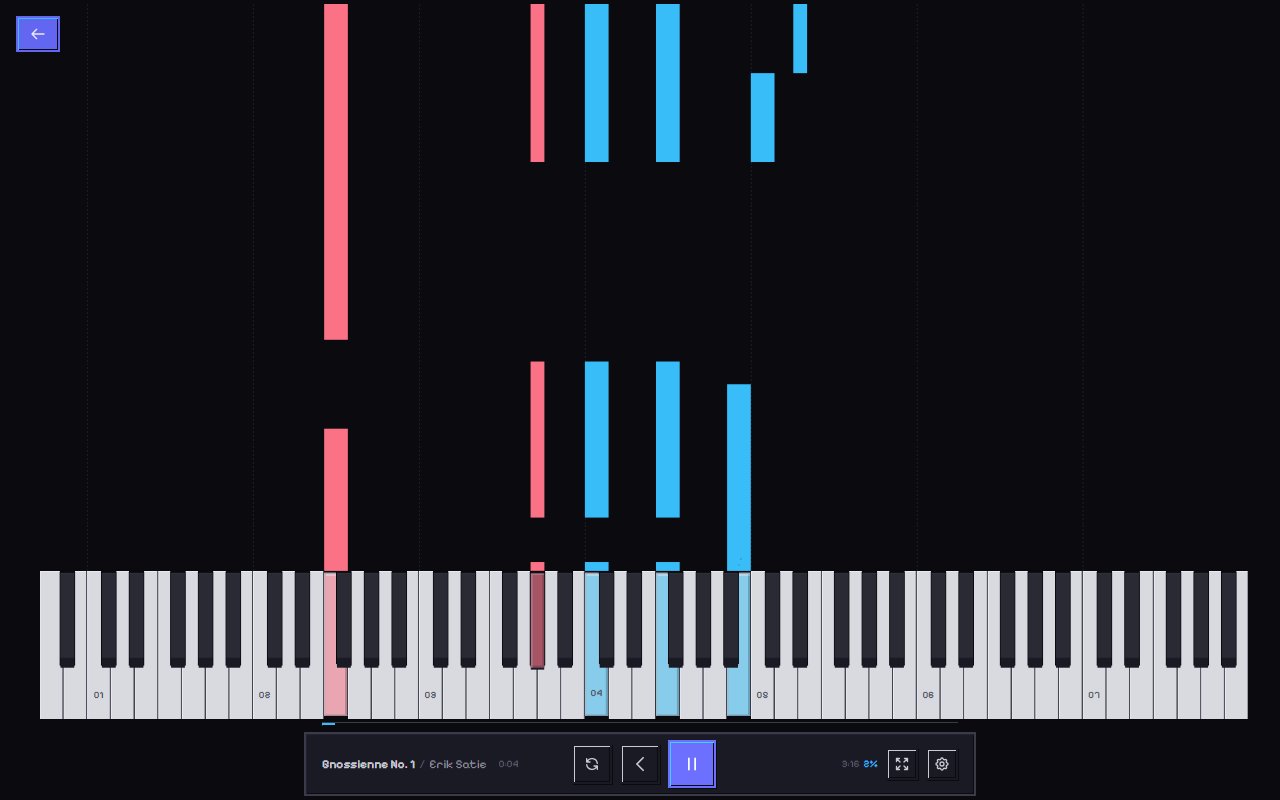
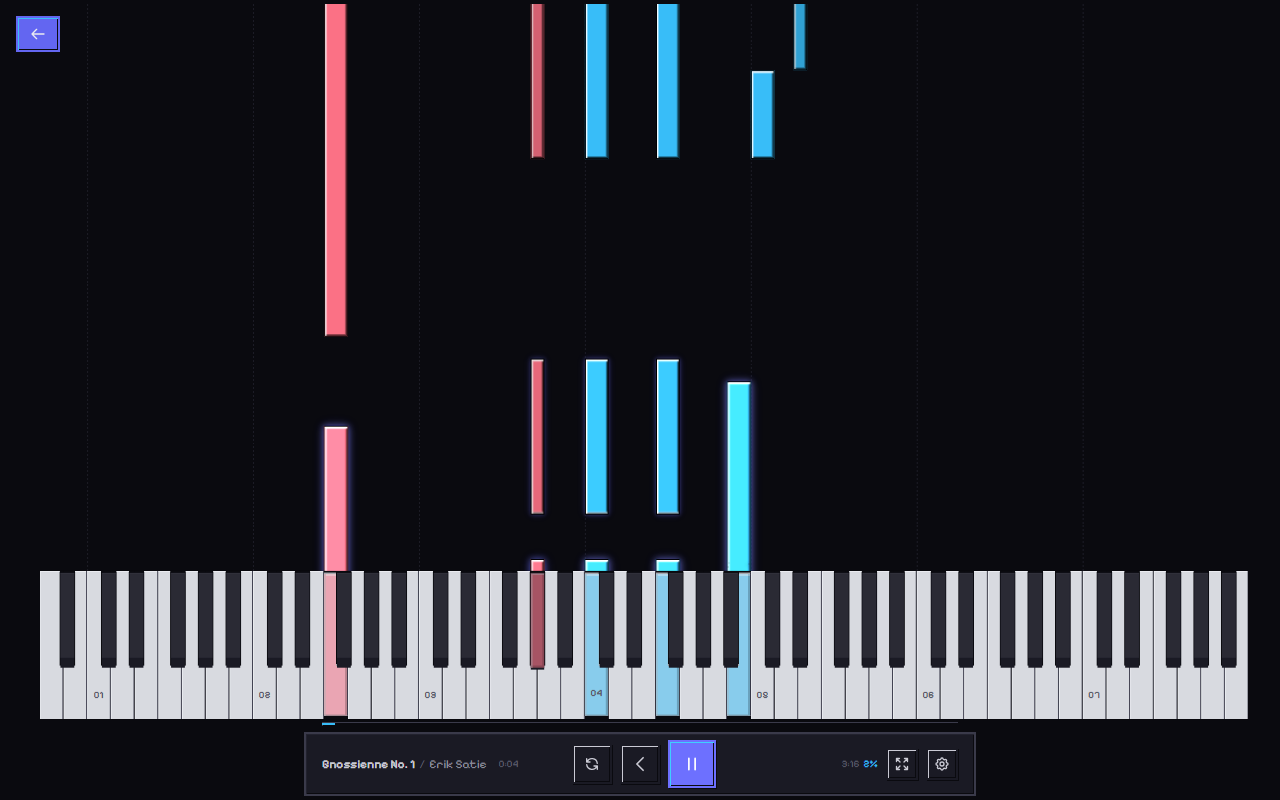
style: remove note segmentation lines for cleaner look
Remove the Tetris-style repeating horizontal lines from long notes.
The segmentation pattern was too visually prominent and distracting.
Notes now use only the top highlight and bevel for internal detail.

Removes .waterfall-note--long class and isLong computation, plus
all per-theme long note overrides (8-bit, warm).

diff --git a/tests/unit/waterfall_logic.test.ts b/tests/unit/waterfall_logic.test.ts
@@ -128,17 +128,16 @@ describe('Waterfall Logic Correctness', () => {
     });
 });
 
-// --- Note visual property computations (proximity, isActive, isLong) ---
+// --- Note visual property computations (proximity, isActive) ---
 // Extracted from Waterfall.tsx for testability
 
-function computeNoteProperties(bottomPx: number, heightPx: number, containerHeight: number) {
+function computeNoteProperties(bottomPx: number, containerHeight: number) {
     const proximity = containerHeight > 0
         ? Math.max(0, Math.min(1, 1 - bottomPx / containerHeight))
         : 0;
     return {
         proximity,
         isActive: bottomPx <= 0,
-        isLong: heightPx > 40,
     };
 }
 
@@ -153,32 +152,32 @@ describe('Note Visual Properties', () => {
 
     describe('proximity', () => {
         it('should be 1.0 when note is at keyboard line (bottomPx = 0)', () => {
-            const { proximity } = computeNoteProperties(0, 30, containerHeight);
+            const { proximity } = computeNoteProperties(0, containerHeight);
             expect(proximity).toBe(1);
         });
 
         it('should be 0.0 when note is at top of container (bottomPx = containerHeight)', () => {
-            const { proximity } = computeNoteProperties(containerHeight, 30, containerHeight);
+            const { proximity } = computeNoteProperties(containerHeight, containerHeight);
             expect(proximity).toBe(0);
         });
 
         it('should be 0.5 when note is at midpoint', () => {
-            const { proximity } = computeNoteProperties(containerHeight / 2, 30, containerHeight);
+            const { proximity } = computeNoteProperties(containerHeight / 2, containerHeight);
             expect(proximity).toBe(0.5);
         });
 
         it('should clamp to 0 when note is above container', () => {
-            const { proximity } = computeNoteProperties(containerHeight + 100, 30, containerHeight);
+            const { proximity } = computeNoteProperties(containerHeight + 100, containerHeight);
             expect(proximity).toBe(0);
         });
 
         it('should clamp to 1 when note is below keyboard line', () => {
-            const { proximity } = computeNoteProperties(-50, 30, containerHeight);
+            const { proximity } = computeNoteProperties(-50, containerHeight);
             expect(proximity).toBe(1);
         });
 
         it('should be 0 when containerHeight is 0', () => {
-            const { proximity } = computeNoteProperties(100, 30, 0);
+            const { proximity } = computeNoteProperties(100, 0);
             expect(proximity).toBe(0);
         });
     });
@@ -205,35 +204,18 @@ describe('Note Visual Properties', () => {
 
     describe('isActive', () => {
         it('should be true when bottomPx is 0 (note at keyboard line)', () => {
-            const { isActive } = computeNoteProperties(0, 30, containerHeight);
+            const { isActive } = computeNoteProperties(0, containerHeight);
             expect(isActive).toBe(true);
         });
 
         it('should be true when bottomPx is negative (note below keyboard)', () => {
-            const { isActive } = computeNoteProperties(-10, 30, containerHeight);
+            const { isActive } = computeNoteProperties(-10, containerHeight);
             expect(isActive).toBe(true);
         });
 
         it('should be false when bottomPx is positive (note above keyboard)', () => {
-            const { isActive } = computeNoteProperties(1, 30, containerHeight);
+            const { isActive } = computeNoteProperties(1, containerHeight);
             expect(isActive).toBe(false);
-        });
-    });
-
-    describe('isLong', () => {
-        it('should be true when heightPx > 40', () => {
-            const { isLong } = computeNoteProperties(100, 41, containerHeight);
-            expect(isLong).toBe(true);
-        });
-
-        it('should be false when heightPx is exactly 40', () => {
-            const { isLong } = computeNoteProperties(100, 40, containerHeight);
-            expect(isLong).toBe(false);
-        });
-
-        it('should be false when heightPx < 40', () => {
-            const { isLong } = computeNoteProperties(100, 20, containerHeight);
-            expect(isLong).toBe(false);
         });
     });
 });

diff --git a/src/app/globals.css b/src/app/globals.css
@@ -628,26 +628,6 @@ body {
   opacity: 0;
 }
 
-/* Long note segmentation (Tetris brick / piano roll grid) */
-.waterfall-note--long::before {
-  background:
-    linear-gradient(
-      to bottom,
-      rgba(255, 255, 255, 0.5) 0px,
-      rgba(255, 255, 255, 0.2) 2px,
-      transparent 3px
-    ),
-    repeating-linear-gradient(
-      to bottom,
-      transparent 0px,
-      transparent 14px,
-      rgba(0, 0, 0, 0.15) 14px,
-      rgba(0, 0, 0, 0.15) 15px,
-      rgba(255, 255, 255, 0.08) 15px,
-      rgba(255, 255, 255, 0.08) 16px
-    );
-}
-
 /* Black key notes — slightly darker for depth */
 .waterfall-note--black {
   filter: brightness(0.85);
@@ -704,22 +684,6 @@ body {
     rgba(255, 255, 255, 0.6) 0px,
     transparent 1px
   );
-}
-
-[data-theme="8bit"] .waterfall-note--long::before {
-  background:
-    linear-gradient(
-      to bottom,
-      rgba(255, 255, 255, 0.6) 0px,
-      transparent 1px
-    ),
-    repeating-linear-gradient(
-      to bottom,
-      transparent 0px,
-      transparent 7px,
-      rgba(0, 0, 0, 0.25) 7px,
-      rgba(0, 0, 0, 0.25) 8px
-    );
 }
 
 /* --- 16-BIT (SNES): Rich multi-layer bevel, vertical side gradients --- */
@@ -811,25 +775,6 @@ body {
     rgba(255, 240, 200, 0.2) 2px,
     transparent 3px
   );
-}
-
-[data-theme="warm"] .waterfall-note--long::before {
-  background:
-    linear-gradient(
-      to bottom,
-      rgba(255, 240, 200, 0.5) 0px,
-      rgba(255, 240, 200, 0.2) 2px,
-      transparent 3px
-    ),
-    repeating-linear-gradient(
-      to bottom,
-      transparent 0px,
-      transparent 14px,
-      rgba(0, 0, 0, 0.12) 14px,
-      rgba(0, 0, 0, 0.12) 15px,
-      rgba(255, 240, 200, 0.06) 15px,
-      rgba(255, 240, 200, 0.06) 16px
-    );
 }
 
 /* --- HI-BIT (Celeste): Brightness + saturation boost on proximity --- */

diff --git a/src/components/piano/Waterfall.tsx b/src/components/piano/Waterfall.tsx
@@ -82,7 +82,7 @@ export function Waterfall({ midi, currentTick, activeColors, lookAheadTicks = 0,
             renderStartIdx--;
         }
 
-        const active: { id: string; left: number; width: number; bottom: number; height: number; isBlack: boolean; color: string; proximity: number; isActive: boolean; isLong: boolean; }[] = [];
+        const active: { id: string; left: number; width: number; bottom: number; height: number; isBlack: boolean; color: string; proximity: number; isActive: boolean; }[] = [];
 
         for (let i = renderStartIdx; i < allNotes.length; i++) {
             const note = allNotes[i];
@@ -111,7 +111,6 @@ export function Waterfall({ midi, currentTick, activeColors, lookAheadTicks = 0,
                     color: note.color,
                     proximity,
                     isActive: bottomPx <= 0,
-                    isLong: heightPx > 40,
                 });
             }
         }
@@ -149,7 +148,6 @@ export function Waterfall({ midi, currentTick, activeColors, lookAheadTicks = 0,
                         className={twMerge(
                             "waterfall-note absolute",
                             note.isBlack ? "z-15 waterfall-note--black" : "z-10",
-                            note.isLong && "waterfall-note--long",
                         )}
                         data-proximity={note.proximity > 0.85 ? "near" : note.proximity > 0.6 ? "mid" : undefined}
                         data-active={note.isActive ? "" : undefined}
